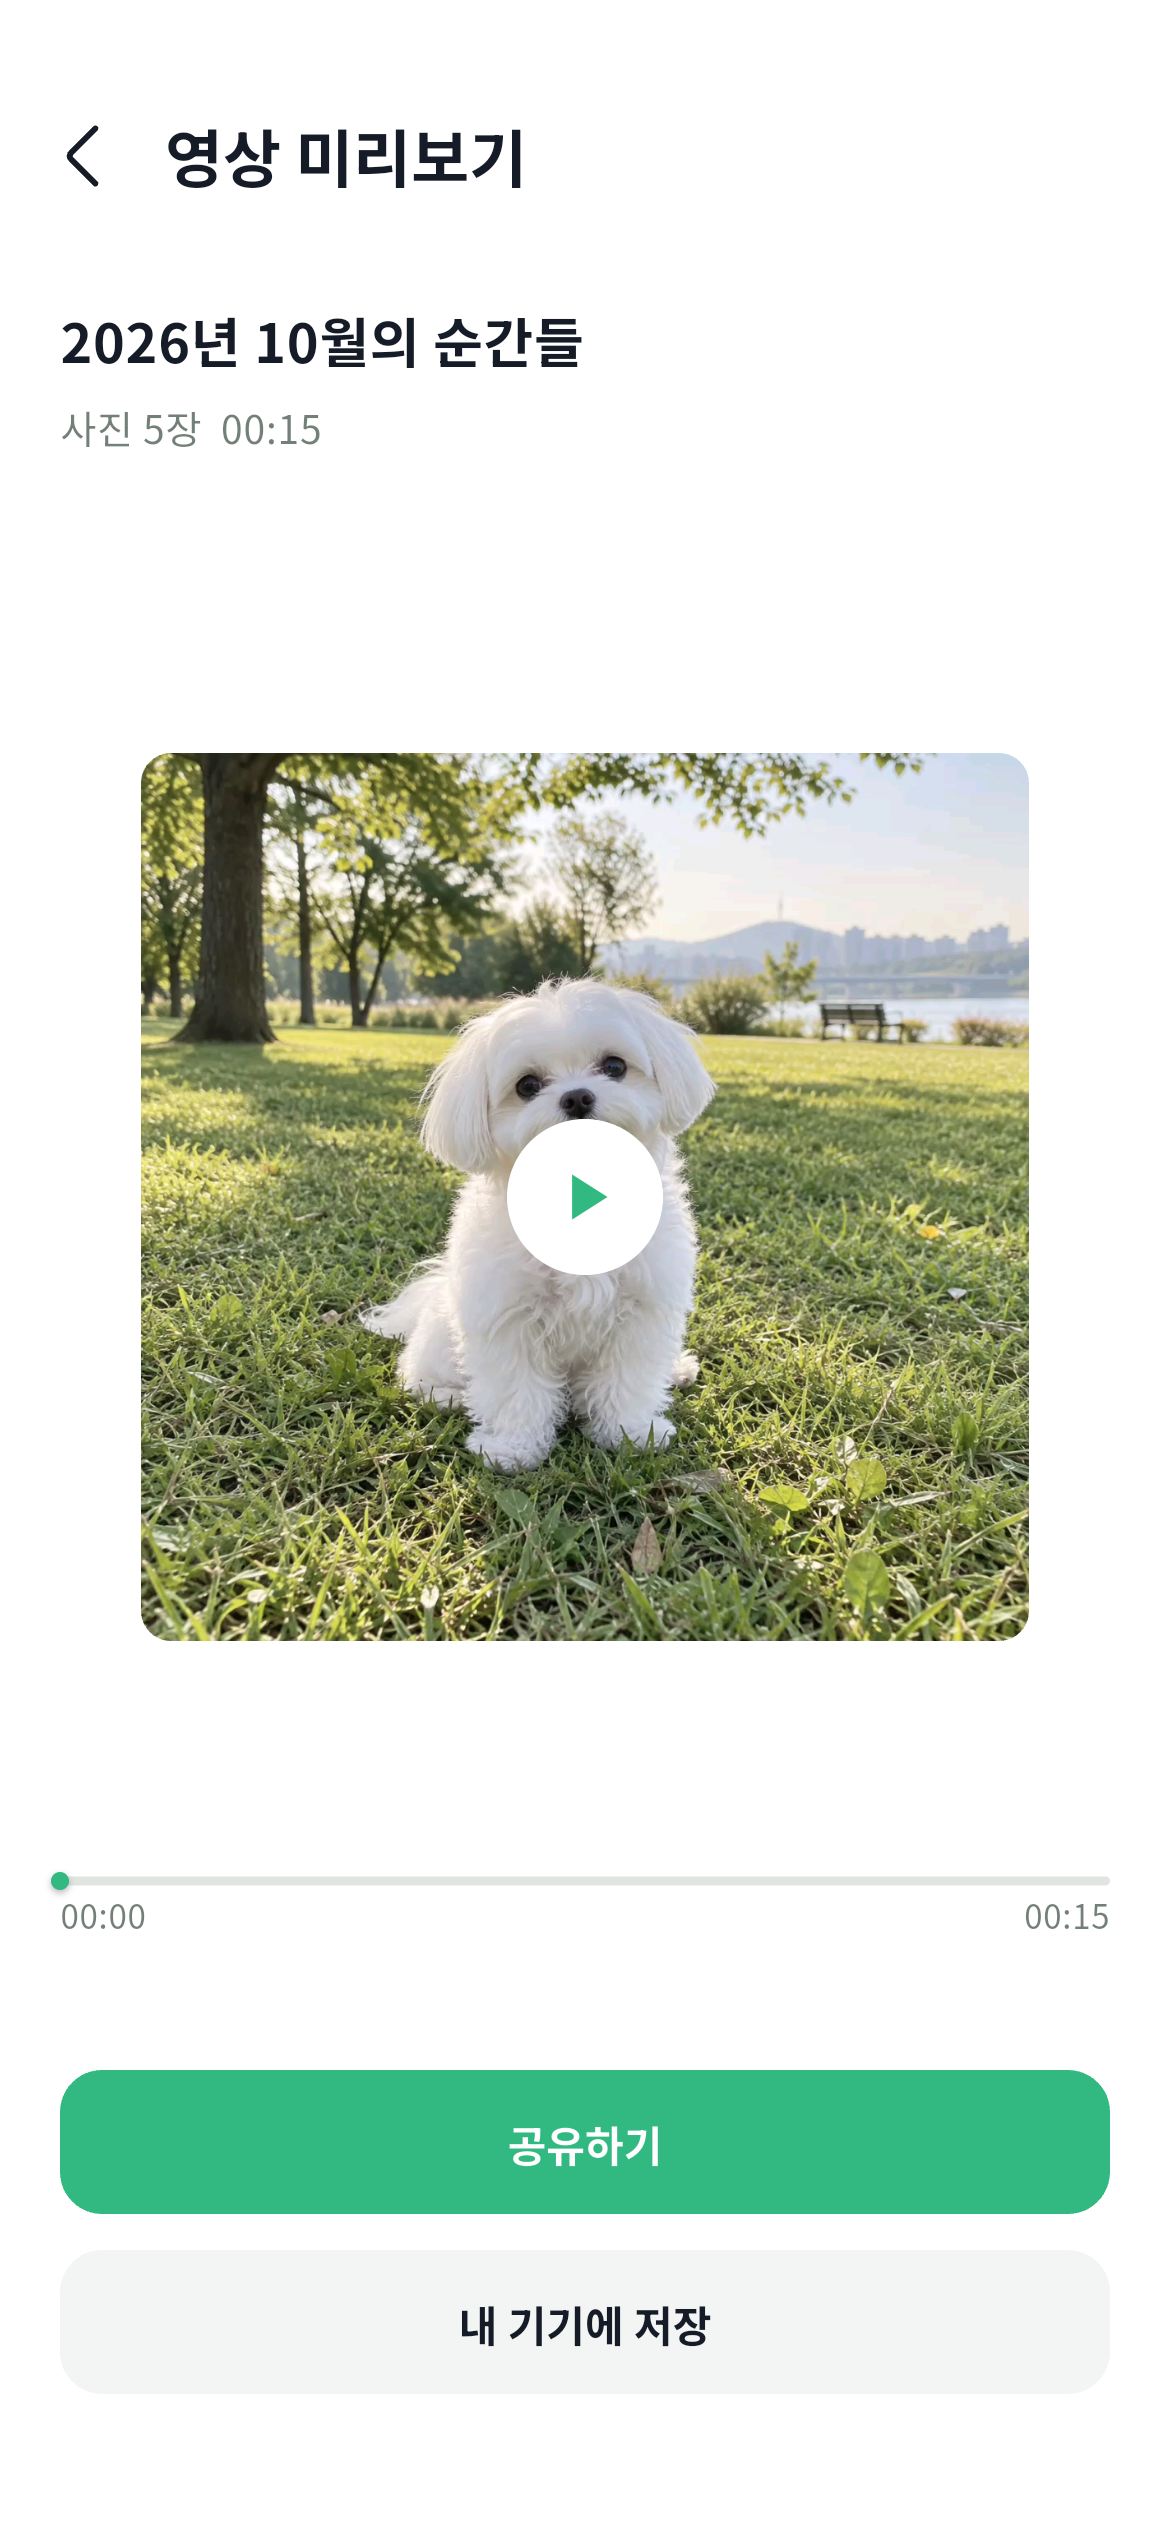
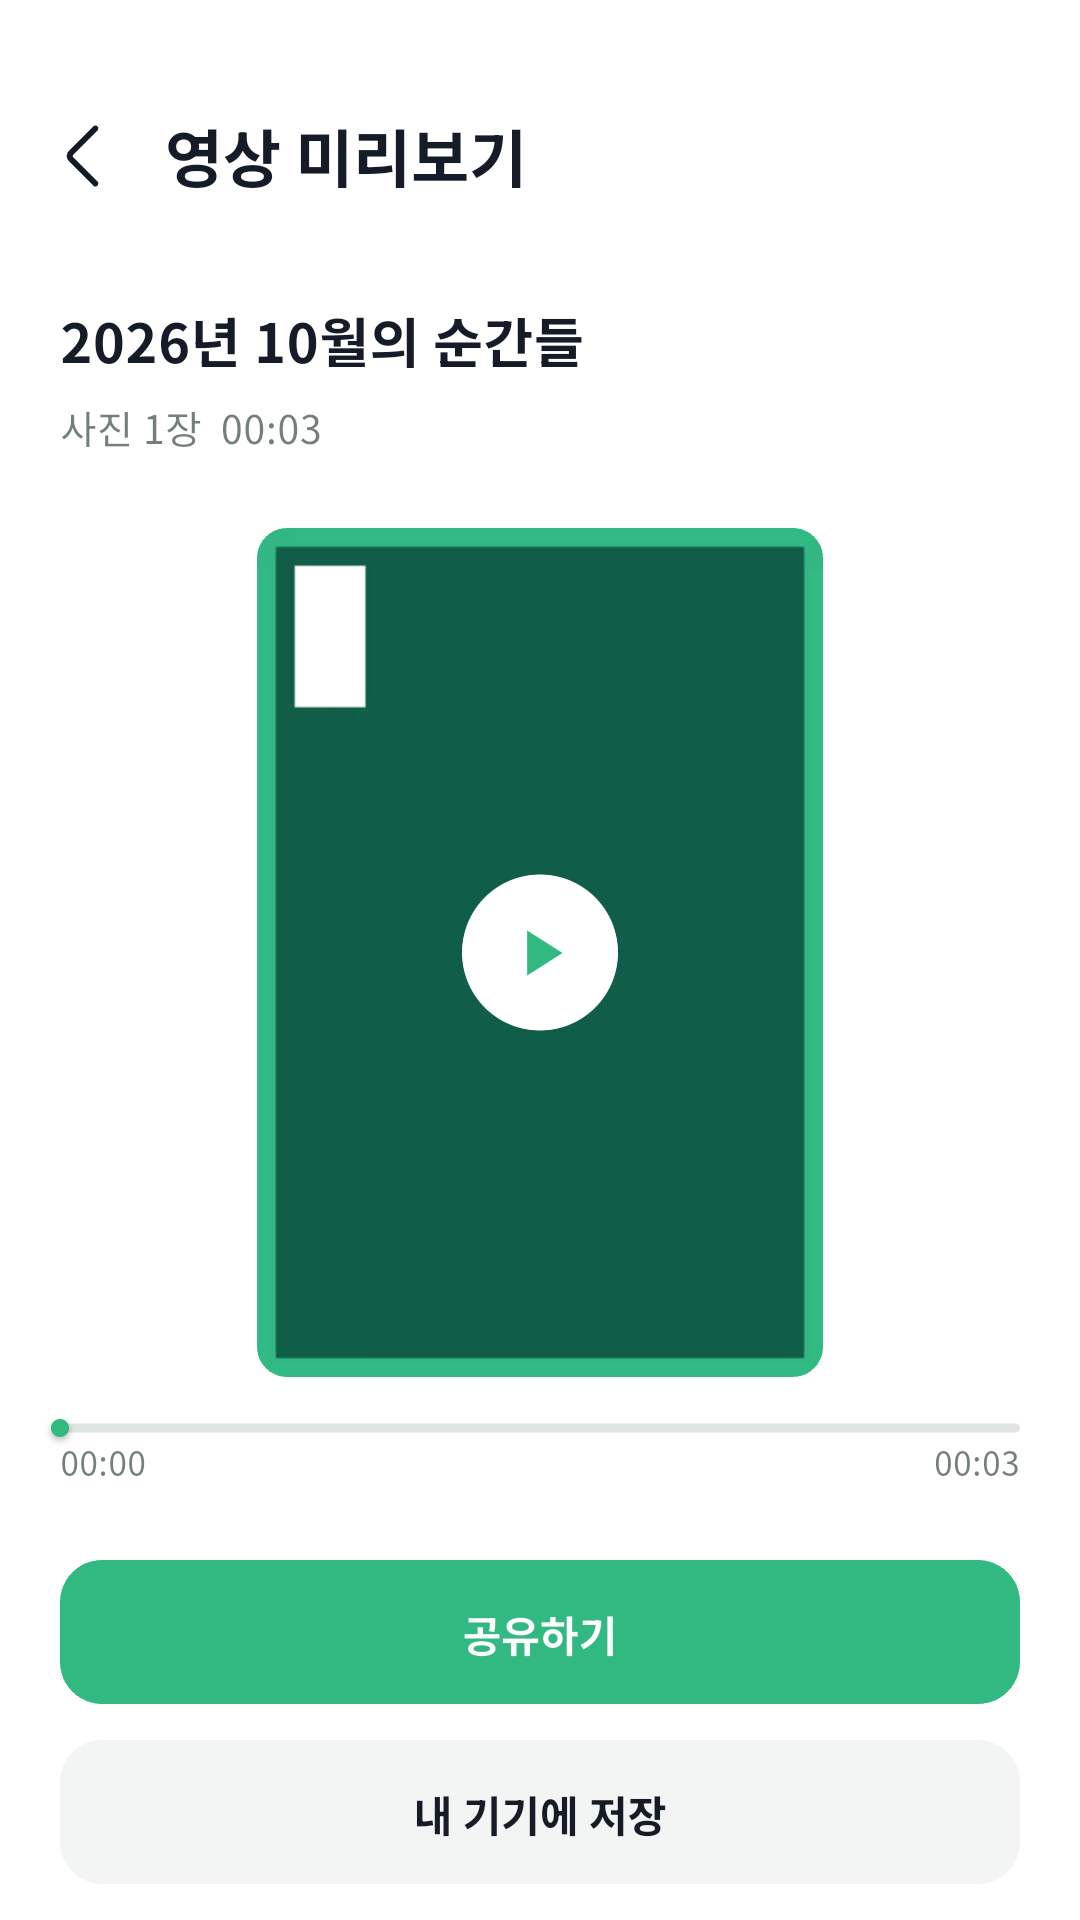
feat : 영상 미리보기 여백 및 비율별 배치 개선

diff --git a/frontend/integration_test/pet_log_preview_spacing_test.dart b/frontend/integration_test/pet_log_preview_spacing_test.dart
@@ -1,0 +1,122 @@
+import 'dart:io';
+import 'dart:typed_data';
+import 'package:dio/dio.dart';
+import 'package:flutter/material.dart';
+import 'package:flutter_test/flutter_test.dart';
+import 'package:frontend/core/api_client.dart';
+import 'package:frontend/core/app_theme.dart';
+import 'package:frontend/models/pet_log.dart';
+import 'package:frontend/screens/pet_log/pet_log_export_screen.dart';
+import 'package:frontend/services/pet_log_export_source.dart';
+import 'package:image/image.dart' as img;
+import 'package:integration_test/integration_test.dart';
+import 'package:path_provider/path_provider.dart';
+import 'package:video_player/video_player.dart';
+
+void main() {
+  final binding = IntegrationTestWidgetsFlutterBinding.ensureInitialized();
+  testWidgets('portrait and landscape previews keep controls beside video', (
+    tester,
+  ) async {
+    expect(const bool.fromEnvironment('ISOLATED_MEDIA_TEST'), isTrue);
+    final directory = (await getExternalStorageDirectory())!;
+    expect(directory.path, contains('com.formypet.frontend.mediatest/'));
+    initApiClient('https://isolated.invalid', includeAuthInterceptor: false);
+    await binding.convertFlutterSurfaceToImage();
+    for (final size in [const Size(240, 360), const Size(360, 240)]) {
+      final fixture = img.Image(
+        width: size.width.toInt(),
+        height: size.height.toInt(),
+      );
+      img.fill(fixture, color: img.ColorRgb8(50, 185, 130));
+      img.fillRect(
+        fixture,
+        x1: 8,
+        y1: 8,
+        x2: fixture.width - 9,
+        y2: fixture.height - 9,
+        color: img.ColorRgb8(20, 95, 75),
+      );
+      img.fillRect(
+        fixture,
+        x1: 16,
+        y1: 16,
+        x2: 45,
+        y2: 75,
+        color: img.ColorRgb8(255, 255, 255),
+      );
+      final bytes = Uint8List.fromList(img.encodeJpg(fixture));
+      dio.interceptors.clear();
+      dio.interceptors.add(
+        InterceptorsWrapper(
+          onRequest: (request, handler) {
+            expectSync(request.method, 'GET');
+            handler.resolve(Response(requestOptions: request, data: bytes));
+          },
+        ),
+      );
+      await tester.pumpWidget(
+        MaterialApp(
+          debugShowCheckedModeBanner: false,
+          theme: buildAppTheme(),
+          home: PetLogExportResultScreen(
+            key: ValueKey(size),
+            kind: PetLogExportKind.video,
+            period: '2026년 10월',
+            photos: [
+              PetLogExportPhoto(
+                logDate: '2026-10-15',
+                photo: PetLogPhoto(
+                  id: 'fixture',
+                  url: 'https://isolated.invalid/photo.jpg',
+                  position: 0,
+                  width: size.width.toInt(),
+                  height: size.height.toInt(),
+                ),
+              ),
+            ],
+          ),
+        ),
+      );
+      for (
+        var i = 0;
+        i < 240 && find.byType(VideoPlayer).evaluate().isEmpty;
+        i++
+      ) {
+        await tester.pump(const Duration(milliseconds: 500));
+      }
+      expect(find.byType(VideoPlayer), findsOneWidget);
+      await tester.pumpAndSettle();
+      final video = tester.getRect(find.byType(VideoPlayer));
+      final slider = tester.getRect(find.byType(Slider));
+      expect(video.width / video.height, closeTo(size.aspectRatio, .01));
+      expect(slider.top - video.bottom, inInclusiveRange(12, 16));
+      expect(
+        tester.getRect(find.text('사진 1장  00:03')).bottom + 24,
+        closeTo(video.top, 1),
+      );
+      expect(find.text('내 기기에 저장').hitTestable(), findsOneWidget);
+      expect(find.text('공유하기').hitTestable(), findsOneWidget);
+      final label = size.width < size.height ? 'portrait' : 'landscape';
+      await File(
+        '${directory.path}/preview-$label.png',
+      ).writeAsBytes(await binding.takeScreenshot(label));
+      await tester.tap(find.byTooltip('재생'));
+      await tester.pump(const Duration(seconds: 1));
+      expect(
+        tester
+            .widget<VideoPlayer>(find.byType(VideoPlayer))
+            .controller
+            .value
+            .isPlaying,
+        isTrue,
+      );
+      await tester.tap(find.byTooltip('일시정지'));
+      await tester.pump();
+      expect(tester.takeException(), isNull);
+      debugPrint('PREVIEW_SPACING_OK $label video=$video slider=$slider');
+      await tester.pumpWidget(const SizedBox.shrink());
+      await tester.pumpAndSettle();
+    }
+  });
+}

diff --git a/frontend/lib/screens/pet_log/pet_log_export_screen.dart b/frontend/lib/screens/pet_log/pet_log_export_screen.dart
@@ -1049,10 +1049,13 @@ class _PetLogExportResultScreenState extends State<PetLogExportResultScreen> {
           ),
         ),
         const SizedBox(height: 24),
-        Expanded(
+        Flexible(
+          fit: FlexFit.loose,
           child: Padding(
-            padding: const EdgeInsets.symmetric(horizontal: 27),
-            child: Center(
+            padding: EdgeInsets.zero,
+            child: Align(
+              alignment: Alignment.topCenter,
+              heightFactor: 1,
               child: AspectRatio(
                 aspectRatio: value.aspectRatio,
                 child: Stack(
@@ -1090,7 +1093,7 @@ class _PetLogExportResultScreenState extends State<PetLogExportResultScreen> {
             ),
           ),
         ),
-        const SizedBox(height: 2),
+        const SizedBox(height: 14),
         SliderTheme(
           data: SliderTheme.of(context).copyWith(
             trackHeight: 3,
@@ -1135,7 +1138,7 @@ class _PetLogExportResultScreenState extends State<PetLogExportResultScreen> {
             ),
           ],
         ),
-        const SizedBox(height: 43),
+        const SizedBox(height: 24),
         SizedBox(
           width: double.infinity,
           child: FilledButton(
@@ -1229,7 +1232,7 @@ class _PetLogExportResultScreenState extends State<PetLogExportResultScreen> {
       ),
       body: SafeArea(
         top: false,
-        minimum: widget.kind == PetLogExportKind.video
+        minimum: widget.kind == PetLogExportKind.video && _player == null
             ? const EdgeInsets.only(bottom: 34)
             : EdgeInsets.zero,
         child: _busy
